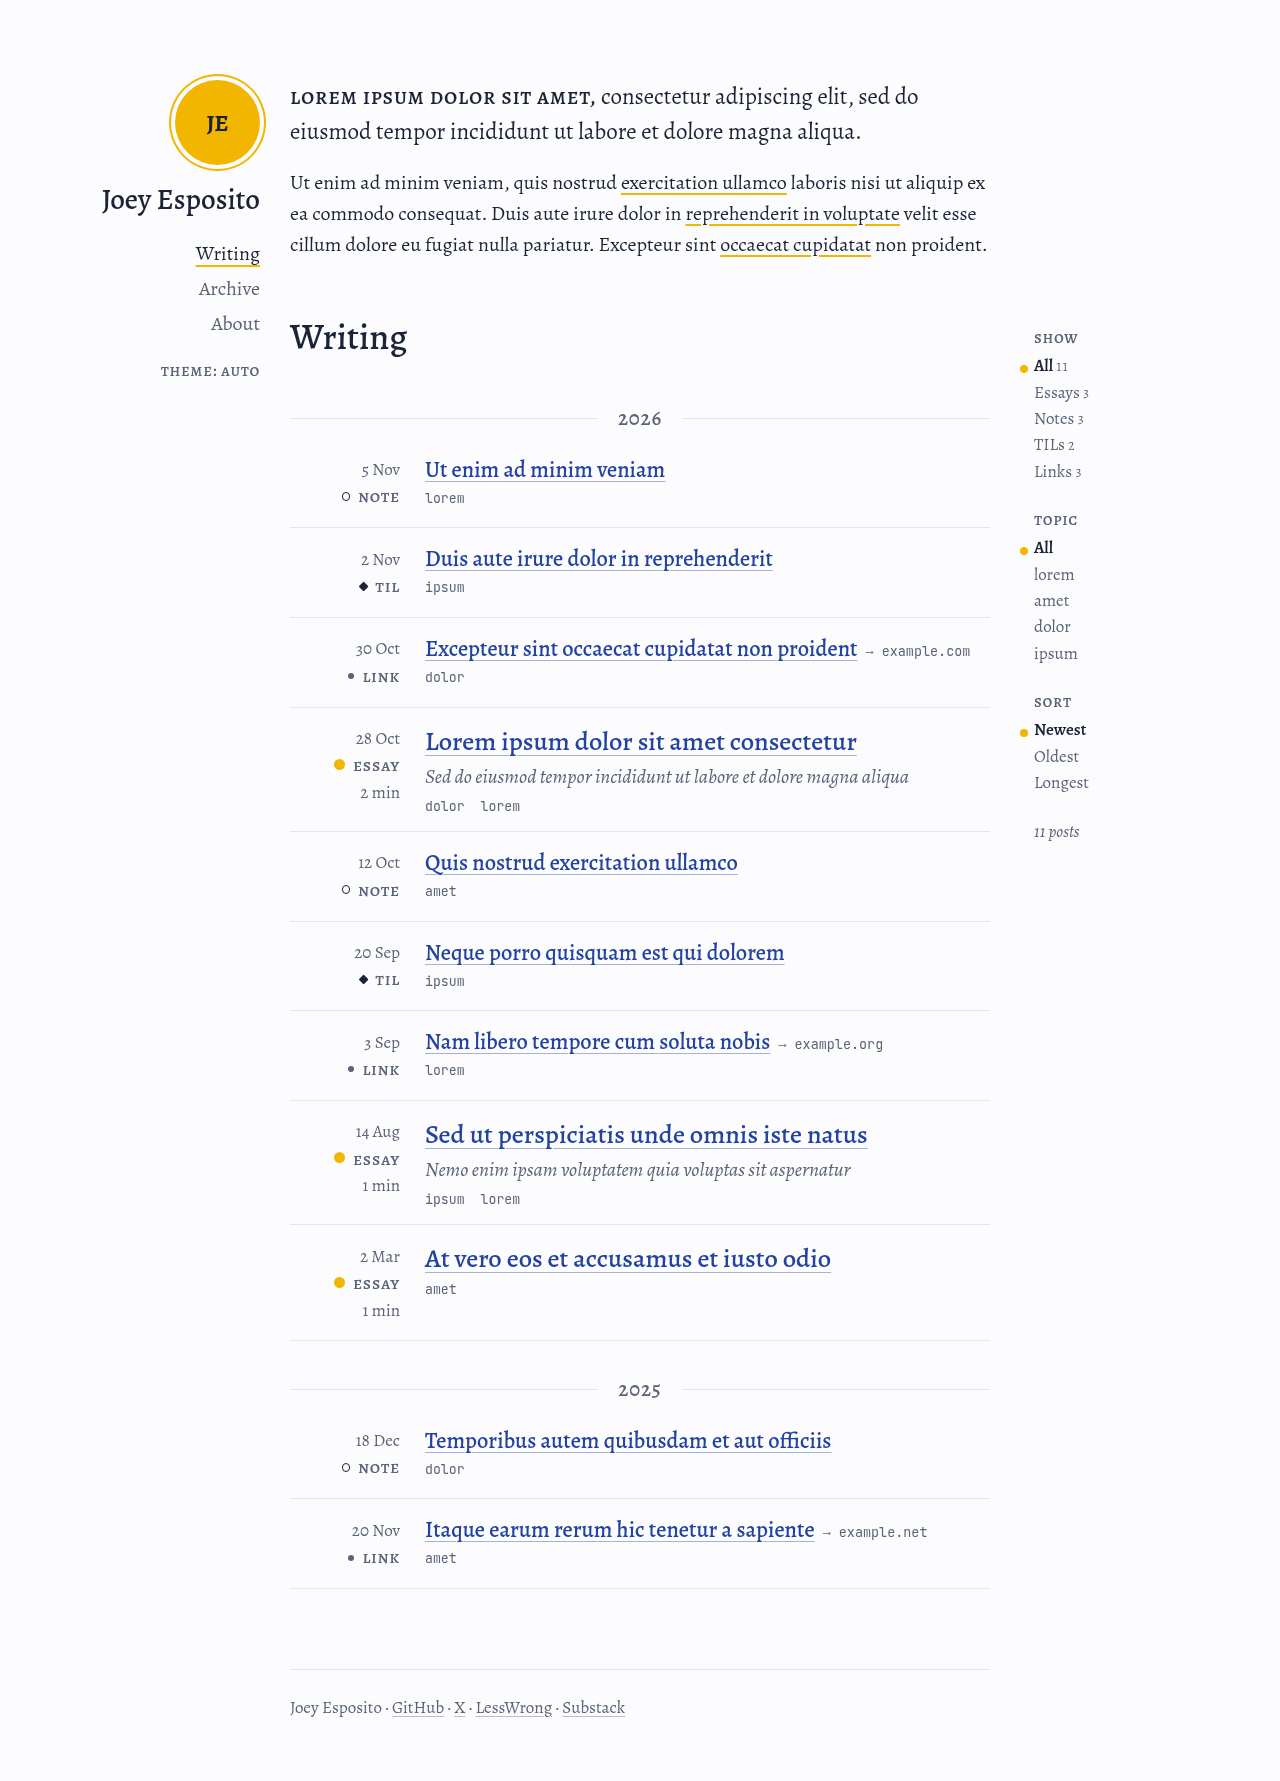
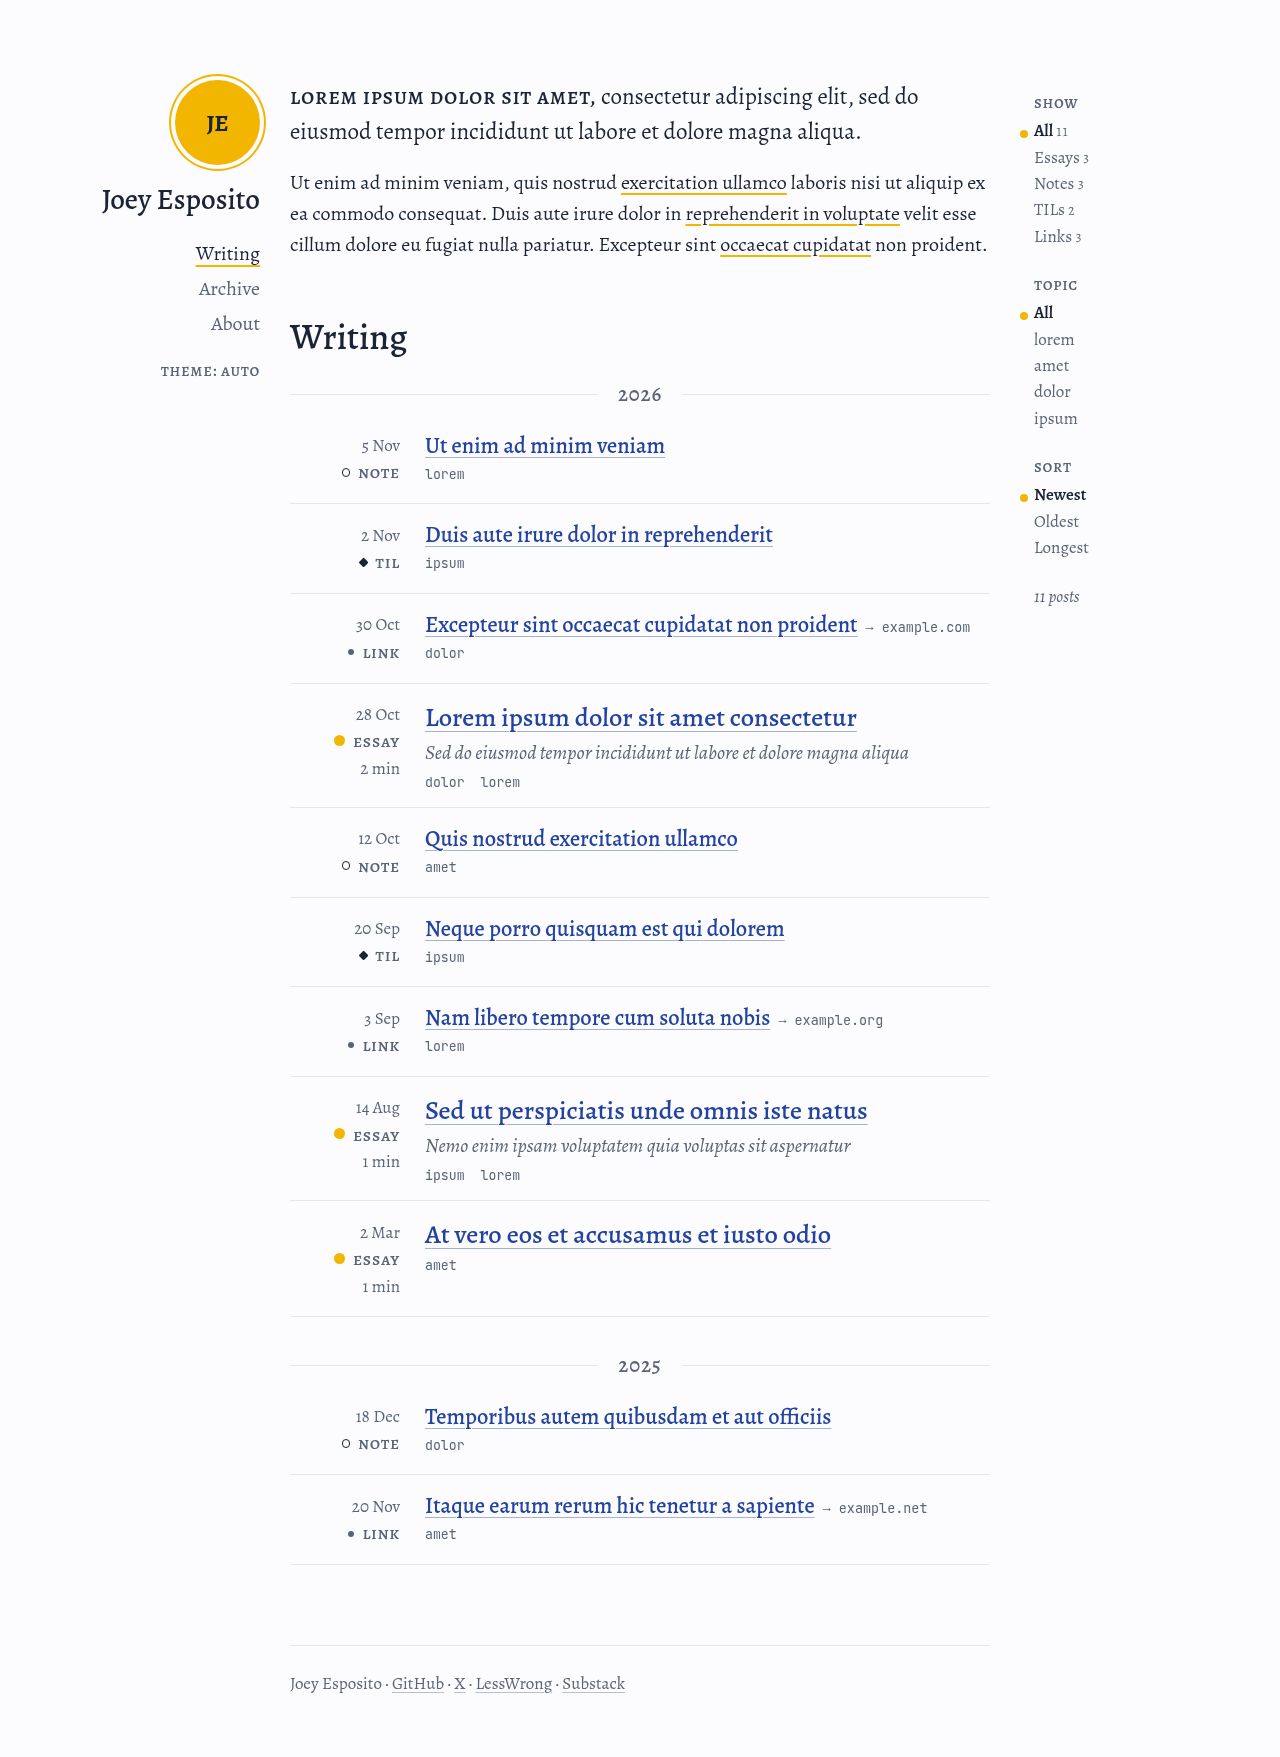
Align the home page's filters with the intro and tighten the list heading
On wide screens the filter rail now starts level with the intro rather than
beside the Writing heading, and the first year divider sits 0.4rem under the
heading instead of 1.6rem. The heading carries the #writing anchor. Phone
layouts and other pages are unchanged.

diff --git a/src/styles/global.css b/src/styles/global.css
@@ -105,7 +105,17 @@ sup { line-height: 0; }
   .page > * { max-width: var(--measure); }
   .page > .with-rail { max-width: none; display: grid; grid-template-columns: var(--measure) var(--rail); column-gap: var(--rail-gap); }
   .with-rail > * { grid-column: 1; }
-  .with-rail > .rail { grid-column: 2; grid-row: 1 / span 3; align-self: start; position: sticky; top: 2rem; max-height: calc(100vh - 4rem); overflow-y: auto; }
+  .with-rail > .rail,
+  .home > .writing > .rail { grid-column: 2; grid-row: 1 / span 3; align-self: start; position: sticky; top: 2rem; max-height: calc(100vh - 4rem); overflow-y: auto; }
+  /* On the home page the list's controls start level with the intro: the writing section's
+     children join the home grid, and the last row (the list) takes up the rail's extra
+     height so it never pushes the heading away from the list. */
+  .page > .home { grid-template-rows: auto auto 1fr; }
+  .home > .writing { display: contents; }
+  .home > .writing > * { grid-column: 1; }
+  .home > .writing > .rail { grid-row: 1 / -1; }
+  /* With the controls out in the rail, the first year divider sits right under the heading. */
+  .home .post-list > .year:first-child { margin-top: 0.4rem; }
   .site-footer { grid-column: 3; grid-row: 2; max-width: none; margin-inline: 0; padding-inline: 0; }
 }
 

diff --git a/DESIGN.md b/DESIGN.md
@@ -64,7 +64,9 @@ Meta 0.85–0.92rem. Inline code 0.8em; code blocks 0.72rem (14.4px).
 - From 80rem: the body is a five-column grid (`1fr | rail | measure | rail | 1fr`). The
   header sits in the left rail, right-aligned and sticky: a 4.25rem avatar, the name, the
   nav, the theme button. Pages that need it put a sticky panel in the right rail (`.with-rail`
-  and `.rail`): the writing list's controls, an essay's contents.
+  and `.rail`): the writing list's controls, an essay's contents. On the home page the
+  controls start level with the intro, and the first year divider sits 0.4rem under the
+  "Writing" heading.
 
 ## Components
 
@@ -118,6 +120,9 @@ Client JavaScript: the filter script on `/` and the theme button. Nothing else.
    cards.
 6. For launch, the evals page and its nav item wait for their text, and the home page shows
    only the intro until the first post exists. Joey agreed to both.
+7. Joey found the wide home page's spacing loose. The list's controls now start level with
+   the intro instead of beside "Writing", and the gap between that heading and the first
+   year divider shrank from 2.2rem to 1rem. The 375px layout is unchanged.
 
 ## Notes
 
